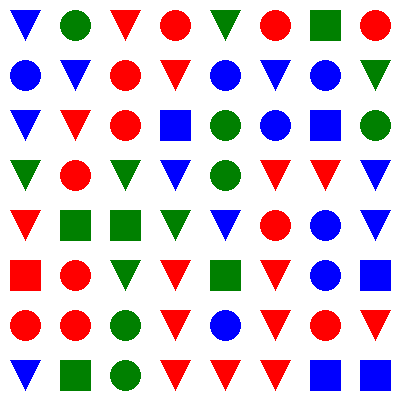
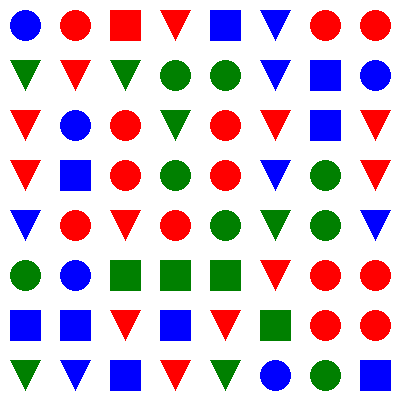
missing target og

diff --git a/classification dataset generator.py b/classification dataset generator.py
@@ -29,7 +29,7 @@ def generate_image_and_label(target_shape, target_color, data_number, probabilit
     object_y = SPACING/2
     image = Image.new("RGB", (IMAGE_WIDTH, IMAGE_HEIGHT), "white")
     draw = ImageDraw.Draw(image)
-    target_idx = random.randint(0, NUM_SHAPES)
+    target_idx = random.randint(0, NUM_SHAPES - 1)
     objects = {'green': 'circle',
            'red': 'square',
            'blue': 'triangle'}
